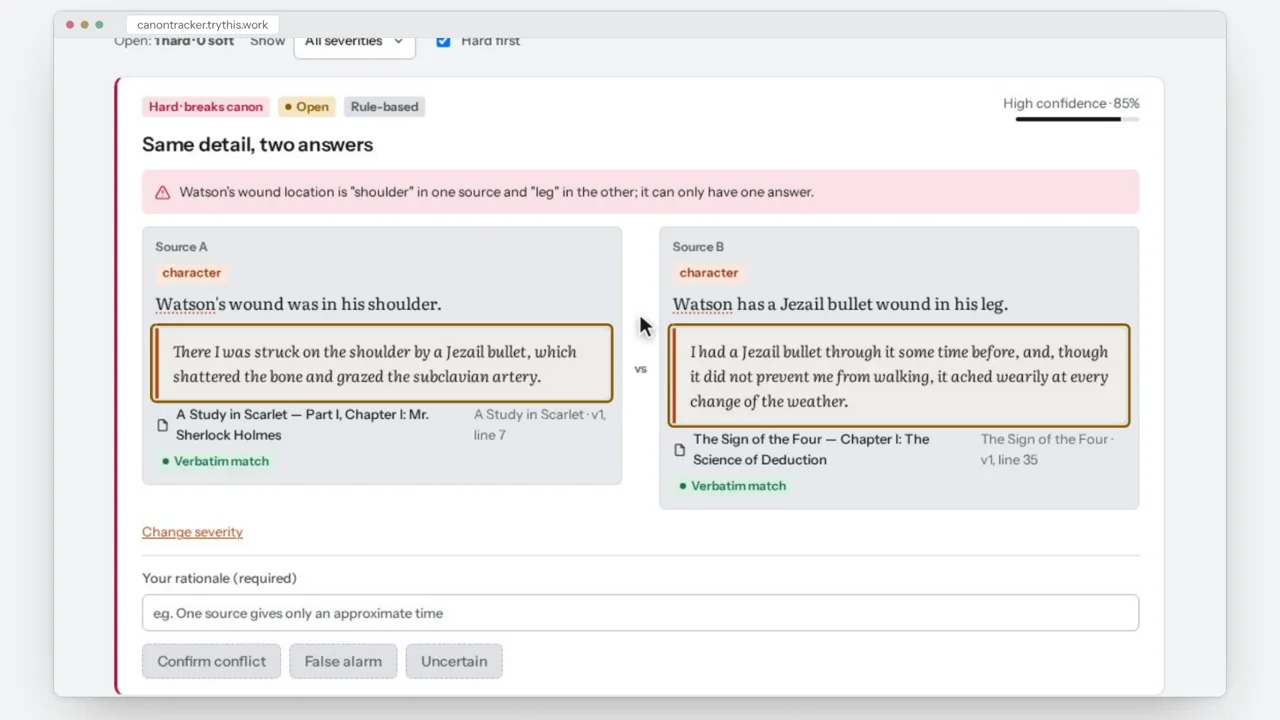
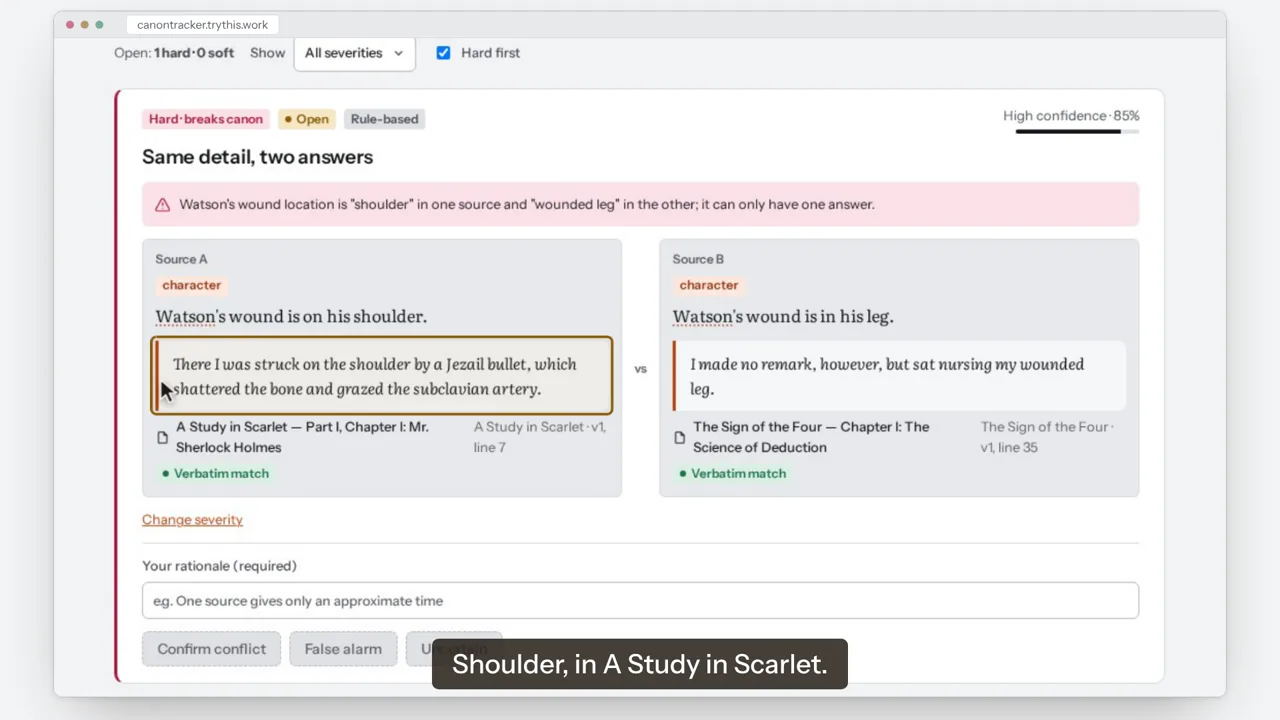
Final demo video (youtu.be/tb1EZ1d2VSk, 1080p) on the landing, README and submission; poster from it
Claude-Session: https://claude.ai/code/session_018FT5nowQ6S8AfgwKZvpJeF

diff --git a/app/utils/marketing.ts b/app/utils/marketing.ts
@@ -8,7 +8,7 @@ export const GITHUB = 'https://github.com/tektikas/canontracker'
 export const LICENSE_URL = 'https://github.com/tektikas/canontracker/blob/master/LICENSE'
 export const CONTACT = 'mailto:info@tektik.ai'
 /** YouTube id of the three-minute demo video. Empty hides the landing's video section (and no player loads until a click). */
-export const VIDEO_ID = 'uzPa375gpYU'
+export const VIDEO_ID = 'tb1EZ1d2VSk'
 
 /** A product screenshot in public/shots (light and dark, 720 and 1280 wide). */
 export interface Shot { name: string, alt: string }

diff --git a/README.md b/README.md
@@ -2,7 +2,7 @@
 
 CanonTracker helps writers and narrative teams keep a story world consistent. Import lore, chapters, scripts or recordings; review AI-proposed facts with their source quotes; then check accepted canon for contradictions and inspect the 1–2 hop impact of a proposed change. People decide what becomes canon. It works for novels, games, screen stories and worldbuilding, solo or in a studio.
 
-Meta AI Developer Hackathon · Startup track. **Demo video:** [youtu.be/uzPa375gpYU](https://youtu.be/uzPa375gpYU) · **Live app:** `LIVE_URL` (filled at submission). Use the local quick start to try it now.
+Meta AI Developer Hackathon · Startup track. **Demo video:** [youtu.be/tb1EZ1d2VSk](https://youtu.be/tb1EZ1d2VSk) · **Live app:** `LIVE_URL` (filled at submission). Use the local quick start to try it now.
 
 ## Built during the hackathon (27 Oct–4 Nov 2026)
 

diff --git a/docs/submission.md b/docs/submission.md
@@ -45,7 +45,7 @@ Branching canon conditioned on player choices, project-specific membership withi
 
 ## Links to fill at submission
 
-- Demo video: https://youtu.be/uzPa375gpYU
+- Demo video: https://youtu.be/tb1EZ1d2VSk
 - Public live app: `LIVE_URL` (current staging is LAN/VPN-only)
 - Source: https://github.com/tektikas/canontracker (mirror to be made public by the owner at submission)
 - Pitch deck: [pitch-deck.pdf](pitch-deck.pdf), also `/pitch` on a running app
